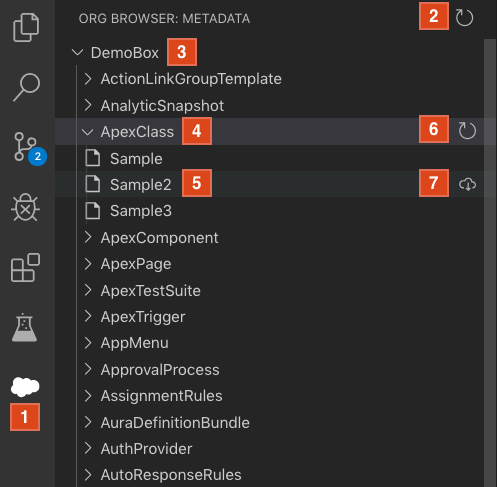
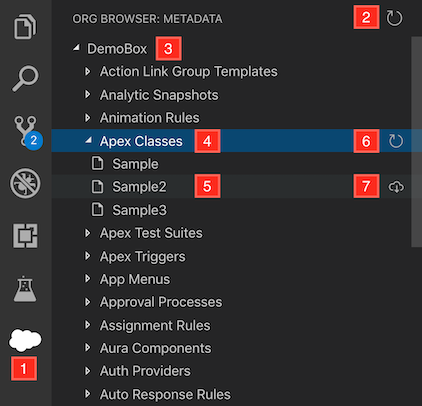
Update org browser doc images (#1516)

diff --git a/docs/articles/user-guide/org-browser.md b/docs/articles/user-guide/org-browser.md
@@ -9,10 +9,11 @@ The Org Browser displays the available metadata types and their corresponding co
 ## Enabling the Org Browser
 
 Because the Org Browser feature is in beta, you must enable the feature:
+
 1. Select **File** > **Preferences** > **Settings** (Windows or Linux) or **Code** > **Preferences** > **Settings** (macOS).
 1. Under **Salesforce Feature Previews**, select **Org Browser: Enabled**.
 
-You can also enter Org Browser in the search box and enable it. 
+You can also enter Org Browser in the search box and enable it.
 
 ![Enable Org Browser](../../images/org_browser_setting.png)
 
@@ -37,13 +38,16 @@ When you open the Org Browser, all the metadata for the default org is saved in 
 The Org Browser lists all the metadata types **(4)** in your default org. To view the components **(5)**, expand the metadata type. When you expand metadata types with folders such as Reports, Dashboards, Documents, and EmailTemplates, all the available folders are displayed. You can view the components in a folder by expanding it.
 
 You can refresh metadata at org level, for a type, for folders in a type, and for components in a folder. Click refresh icon next to:
+
 - Org Browser **(2)** to refresh available metadata types in the org
 - metadata type **(6)** to get an updated list of components for the type
 - folder metadata type to update the folders in the type, but not the components in the folder
-- folder in a metadata type to refresh the components in it 
+- folder in a metadata type to refresh the components in it
 
 ![Metadata type with folders](../../images/org_browser_folders.png)
 
 ## Retrieving Components
 
 You can retrieve a component to your local project by clicking the retrieve button **(7)** next to the component name. Currently, the component is retrieved into your default package directory, which is defined in the [sfdx-project.json](../getting-started/first-project#the-sfdx-projectjson-file) file. If a local version of the component exists, you'll be prompted to confirm before overwriting it.
+
+![Overwrite local component](../../images/org_browser_overwrite.png)